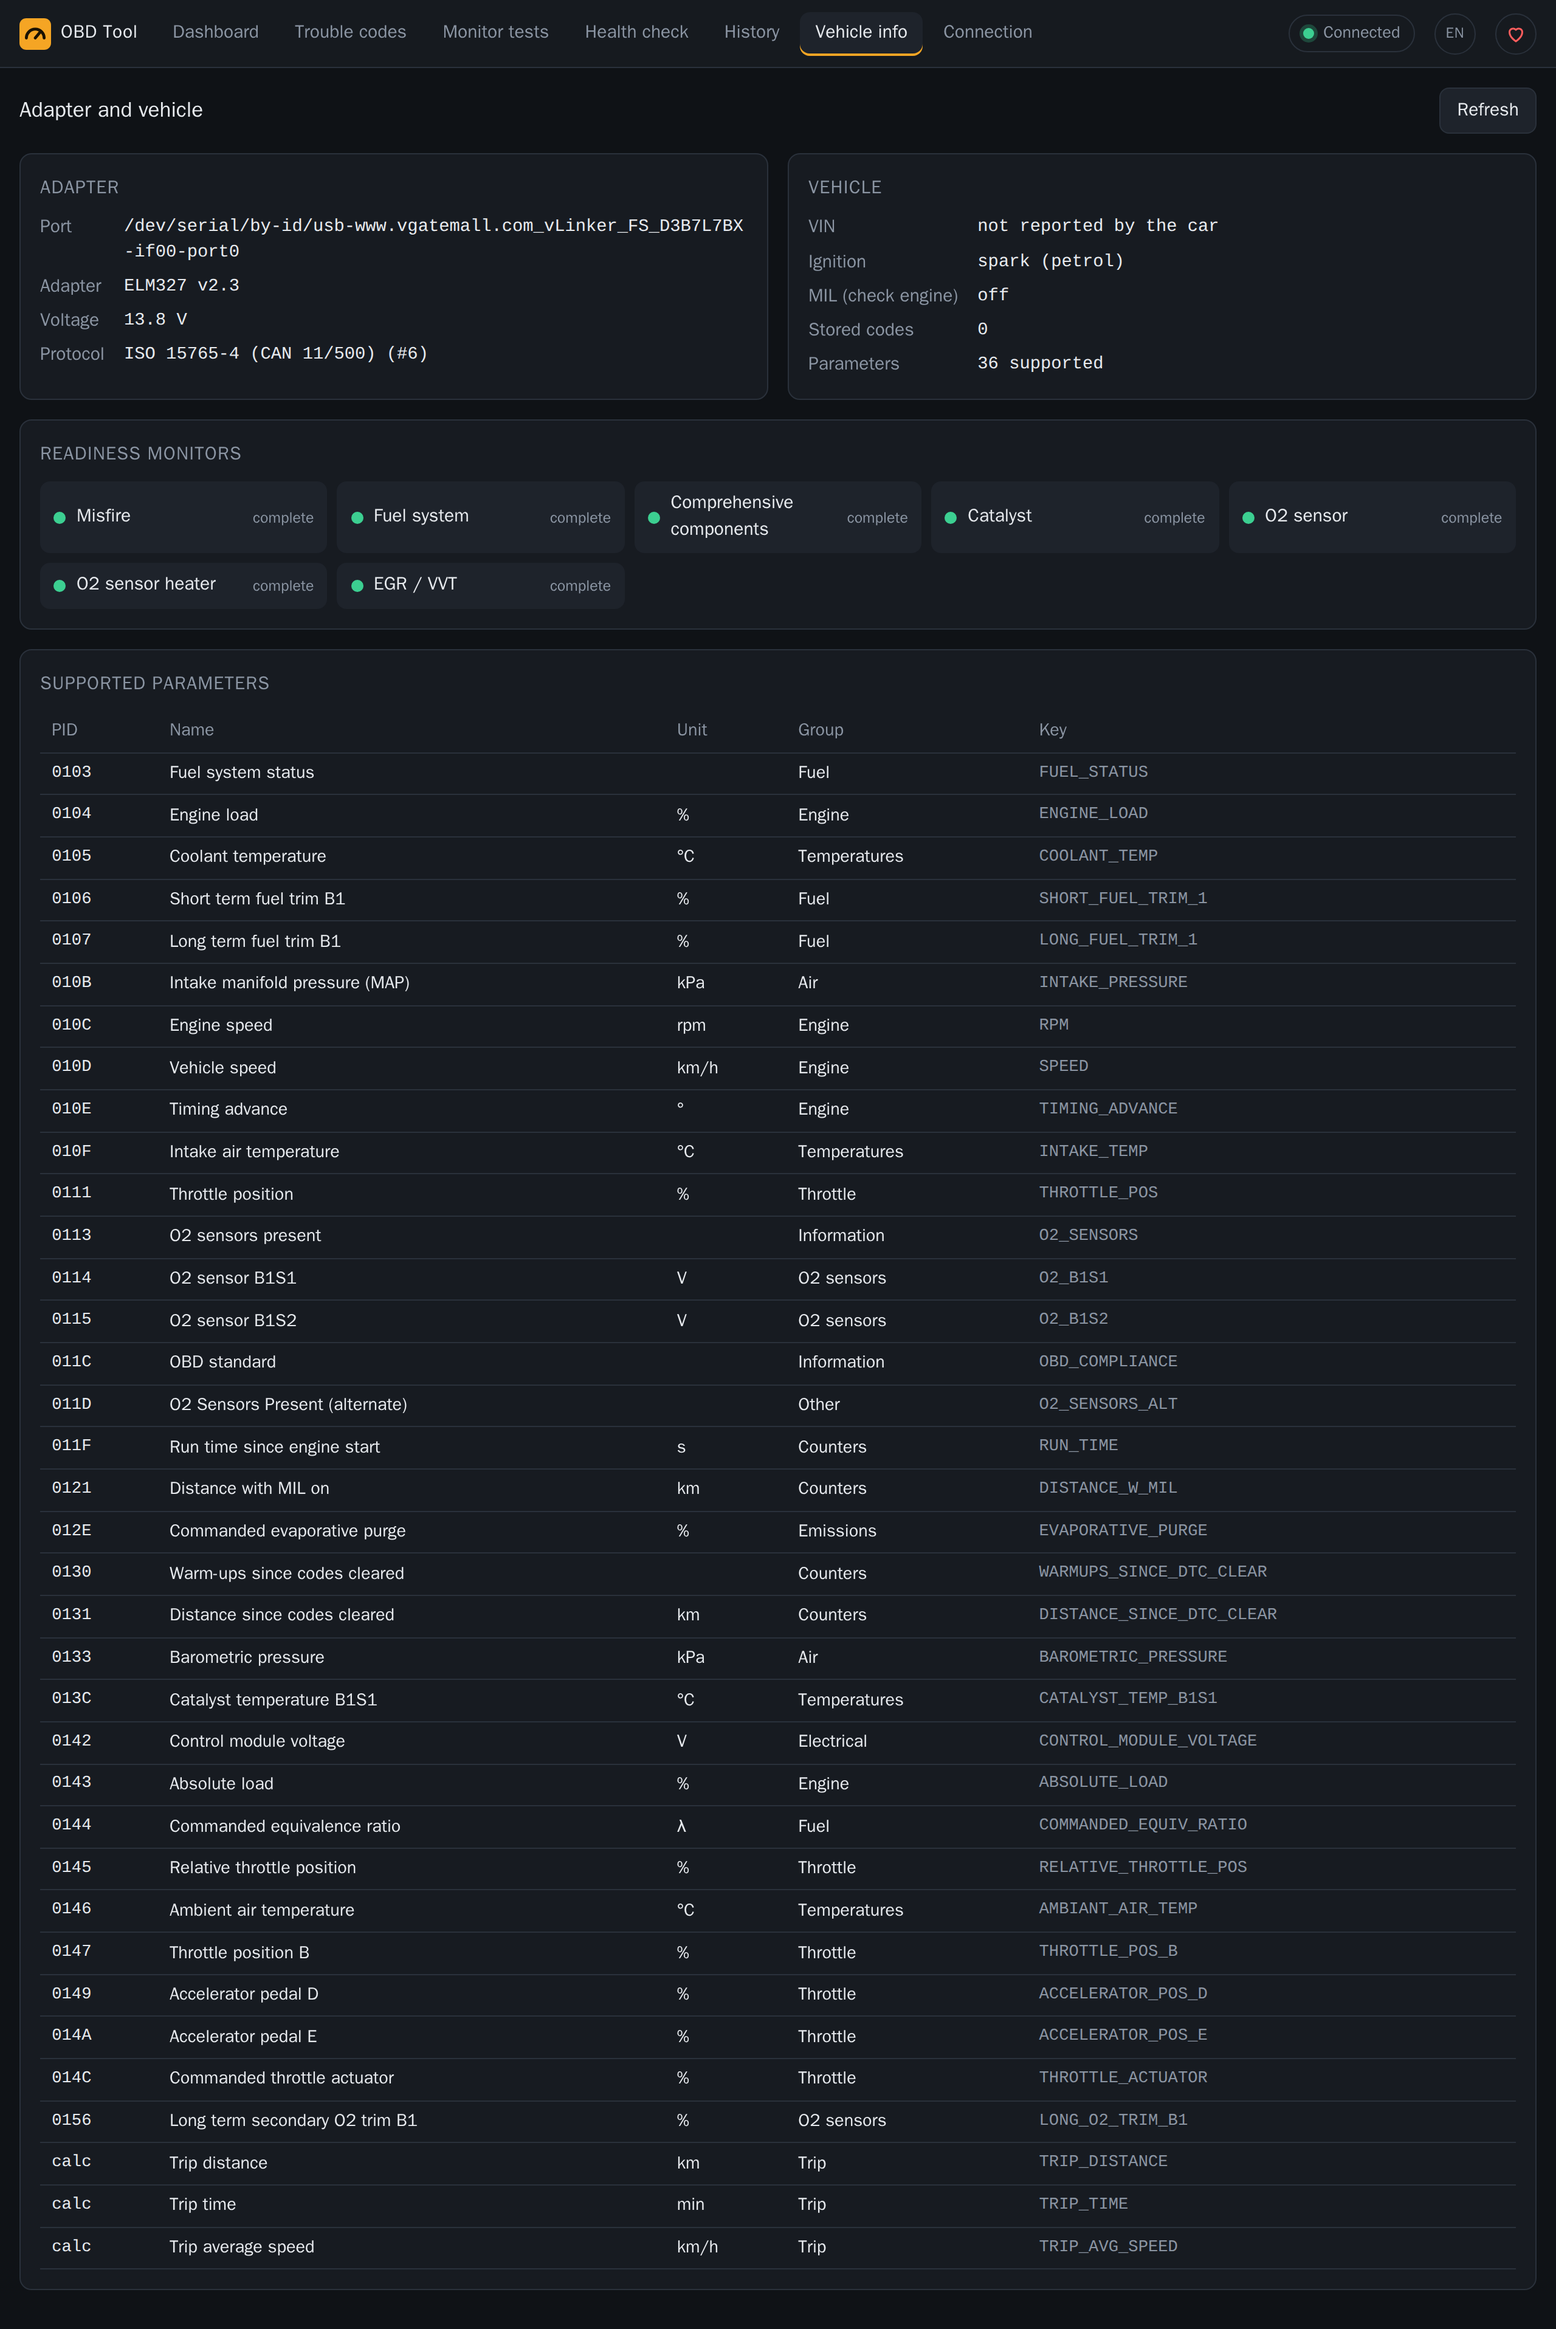
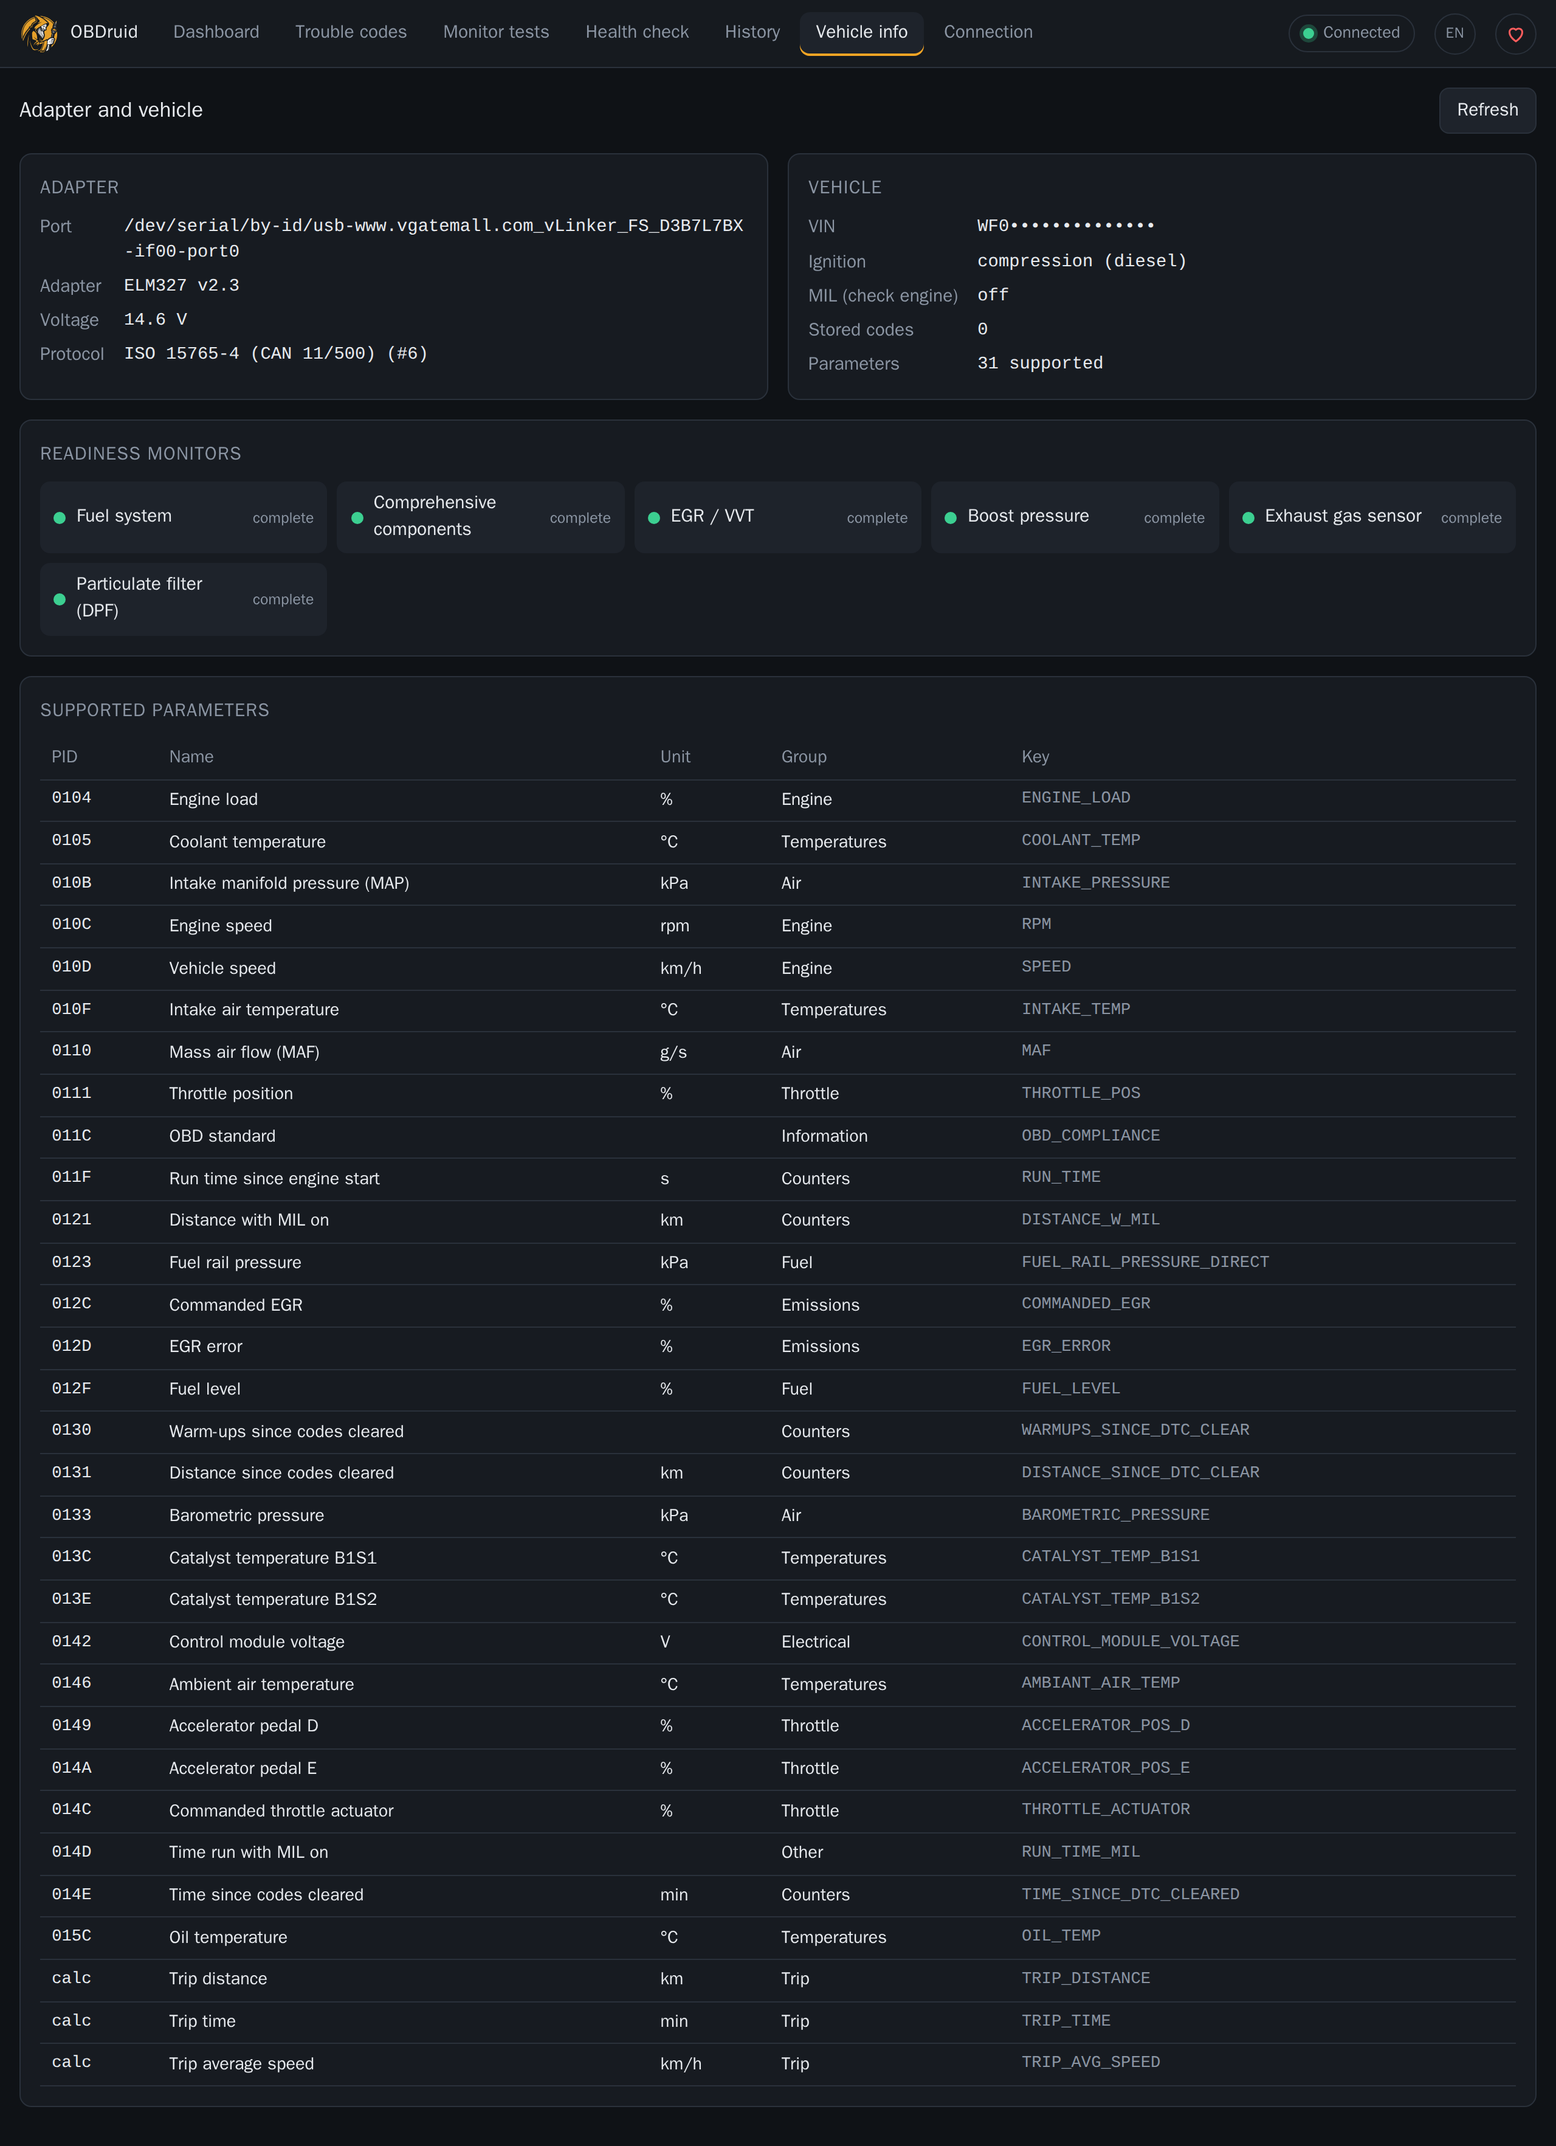
Keep a used vehicle profile from adopting another car's VIN; new screenshots
- a profile without a VIN adopts one only while it has no history; otherwise
  the car gets its own profile (found with a second car on the test rig)
- screenshots retaken with the OBDruid header (VIN masked on car-info)
- README: second tested car (Ford diesel)

diff --git a/src/obdruid/core/storage.py b/src/obdruid/core/storage.py
@@ -163,7 +163,8 @@ class Storage:
 
         The simulator always gets its own "Simulator" profile, so test data never lands
         in a real car's history. A real car with a VIN gets the profile with that VIN,
-        else the active one if it has no VIN yet (it adopts the VIN), else a new profile.
+        else the active one if it has no VIN and no history yet (it adopts the VIN), else a
+        new profile – a profile that already holds another car's history never adopts a VIN.
         A real car without a VIN keeps the active profile.
         """
         with self._lock:
@@ -183,7 +184,7 @@ class Storage:
             for v in real:
                 if v.get("vin") == vin:
                     return self.activate(v["id"])
-            if not active.get("vin"):
+            if not active.get("vin") and not self.records(active["id"]):
                 return self.update(active["id"], vin=vin)
             return self.create(f"Car {vin[-6:]}", vin=vin)
 

diff --git a/tests/test_storage_trip.py b/tests/test_storage_trip.py
@@ -123,3 +123,12 @@ def test_data_dir_migrates_from_obd_tool(tmp_path, monkeypatch):
     assert (tmp_path / "obdruid" / "supporter.json").exists() and not (tmp_path / "obd-tool").exists()
     monkeypatch.setenv("OBD_TOOL_DATA", str(tmp_path / "custom"))  # the old variable still works
     assert default_data_dir() == tmp_path / "custom"
+
+
+def test_used_profile_does_not_adopt_a_vin(tmp_path):
+    st = Storage(tmp_path)
+    car = st.active()  # a car without a VIN that already has history
+    st.add_record(car["id"], "health", "90/100", {"score": 90})
+    new = st.select_for_vin("WF0XXXTTFXDM00001")
+    assert new["id"] != car["id"] and new["vin"] == "WF0XXXTTFXDM00001"
+    assert not st.get(car["id"]).get("vin")

diff --git a/README.md b/README.md
@@ -76,7 +76,10 @@ gearbox modules. Mode 06 needs a CAN protocol. The same table is shown in the Co
 ## Tested hardware
 
 - Adapter: Vgate **vLinker FS** USB (FTDI, ELM327 v2.3 compatible), 115200 baud
-- Car: petrol engine, ISO 15765-4 CAN 11 bit / 500 kbit, single engine ECU (7E8)
+- Cars:
+  - petrol engine, ISO 15765-4 CAN 11 bit / 500 kbit, single engine ECU (7E8), 33 live parameters
+  - Ford diesel with DPF, ISO 15765-4 CAN 11 bit / 500 kbit, VIN reported (16 characters),
+    31 live parameters incl. fuel rail pressure, EGR, oil temperature, fuel level
 - Host: Orange Pi 3B, Debian 12 (aarch64), Python 3.11; also any Linux PC
 
 Any ELM327 compatible adapter (USB, Bluetooth via `rfcomm`) should work through
